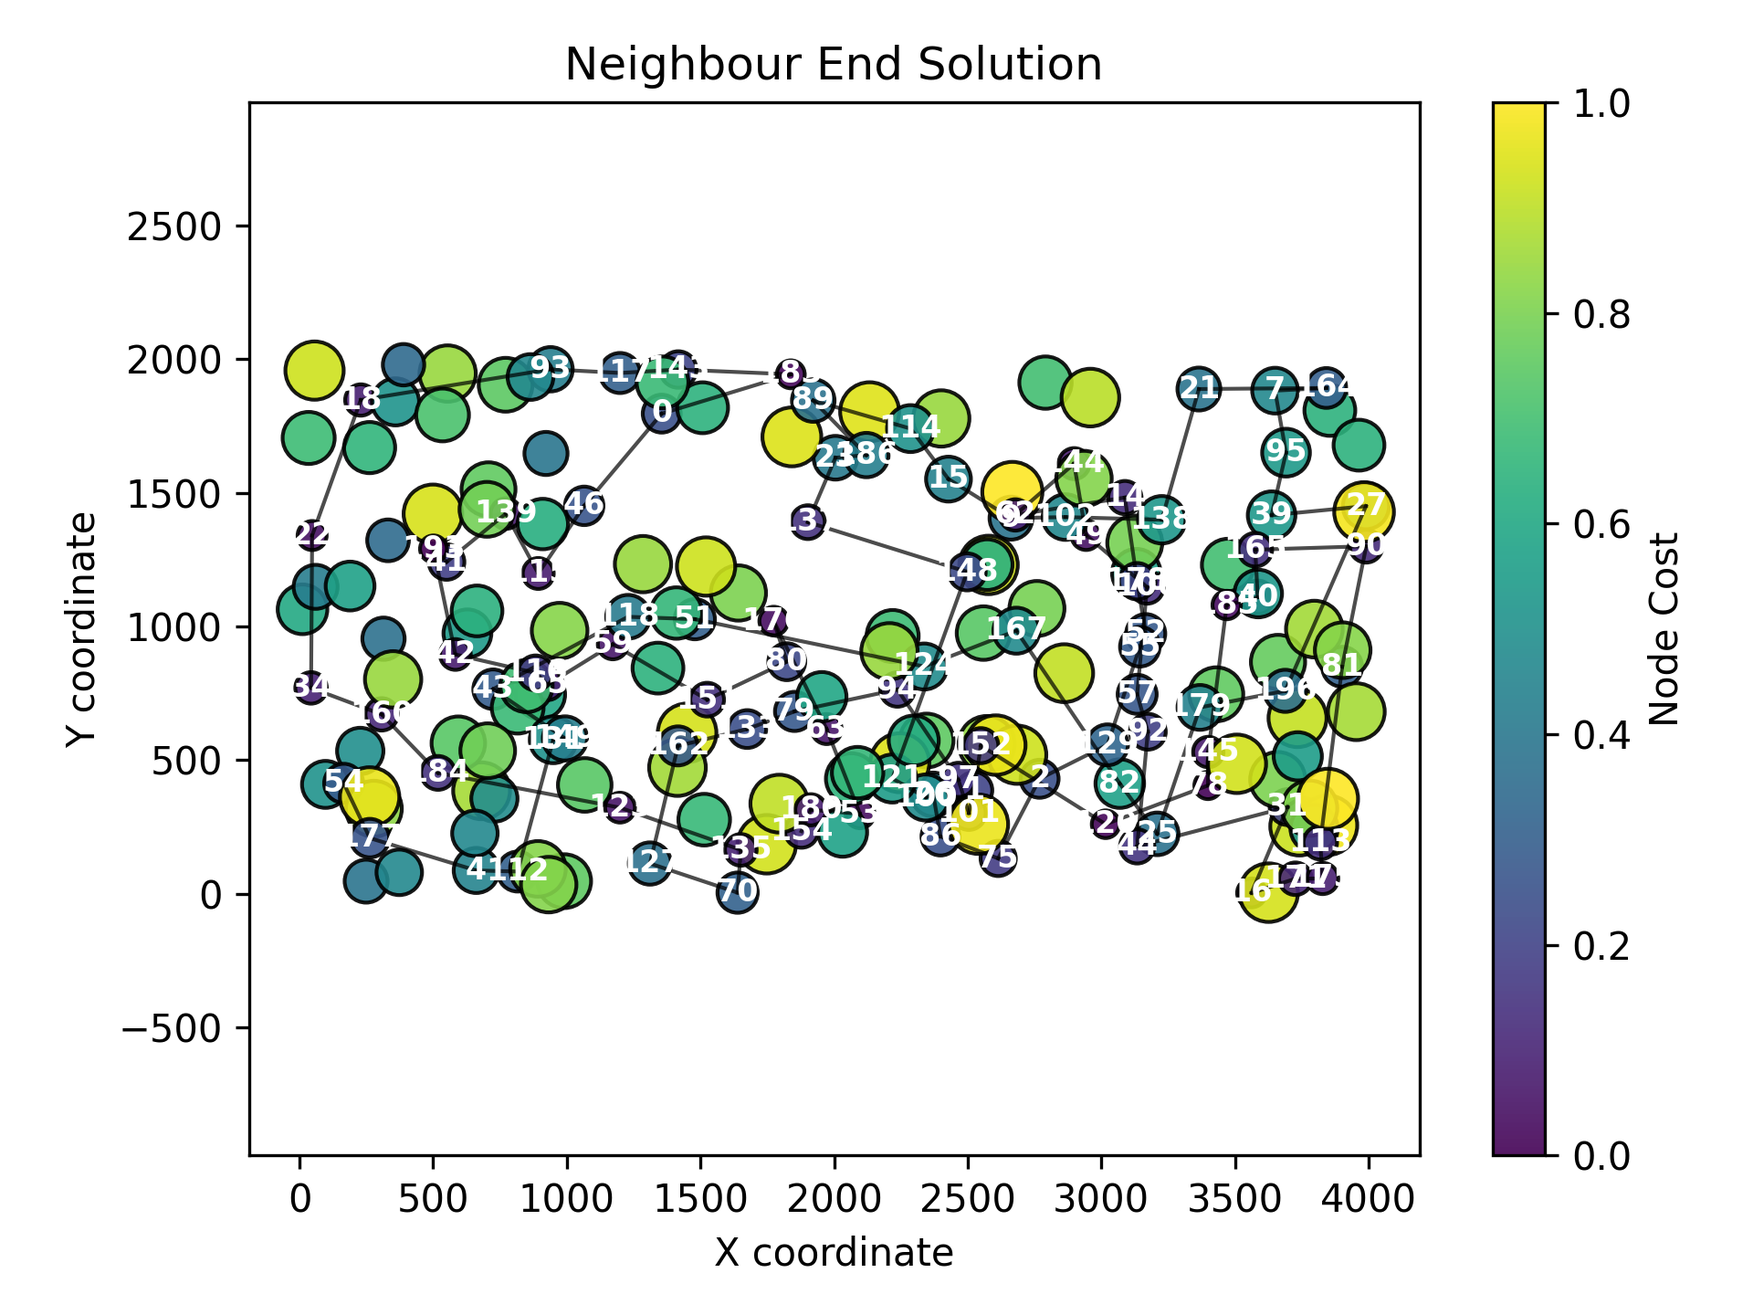
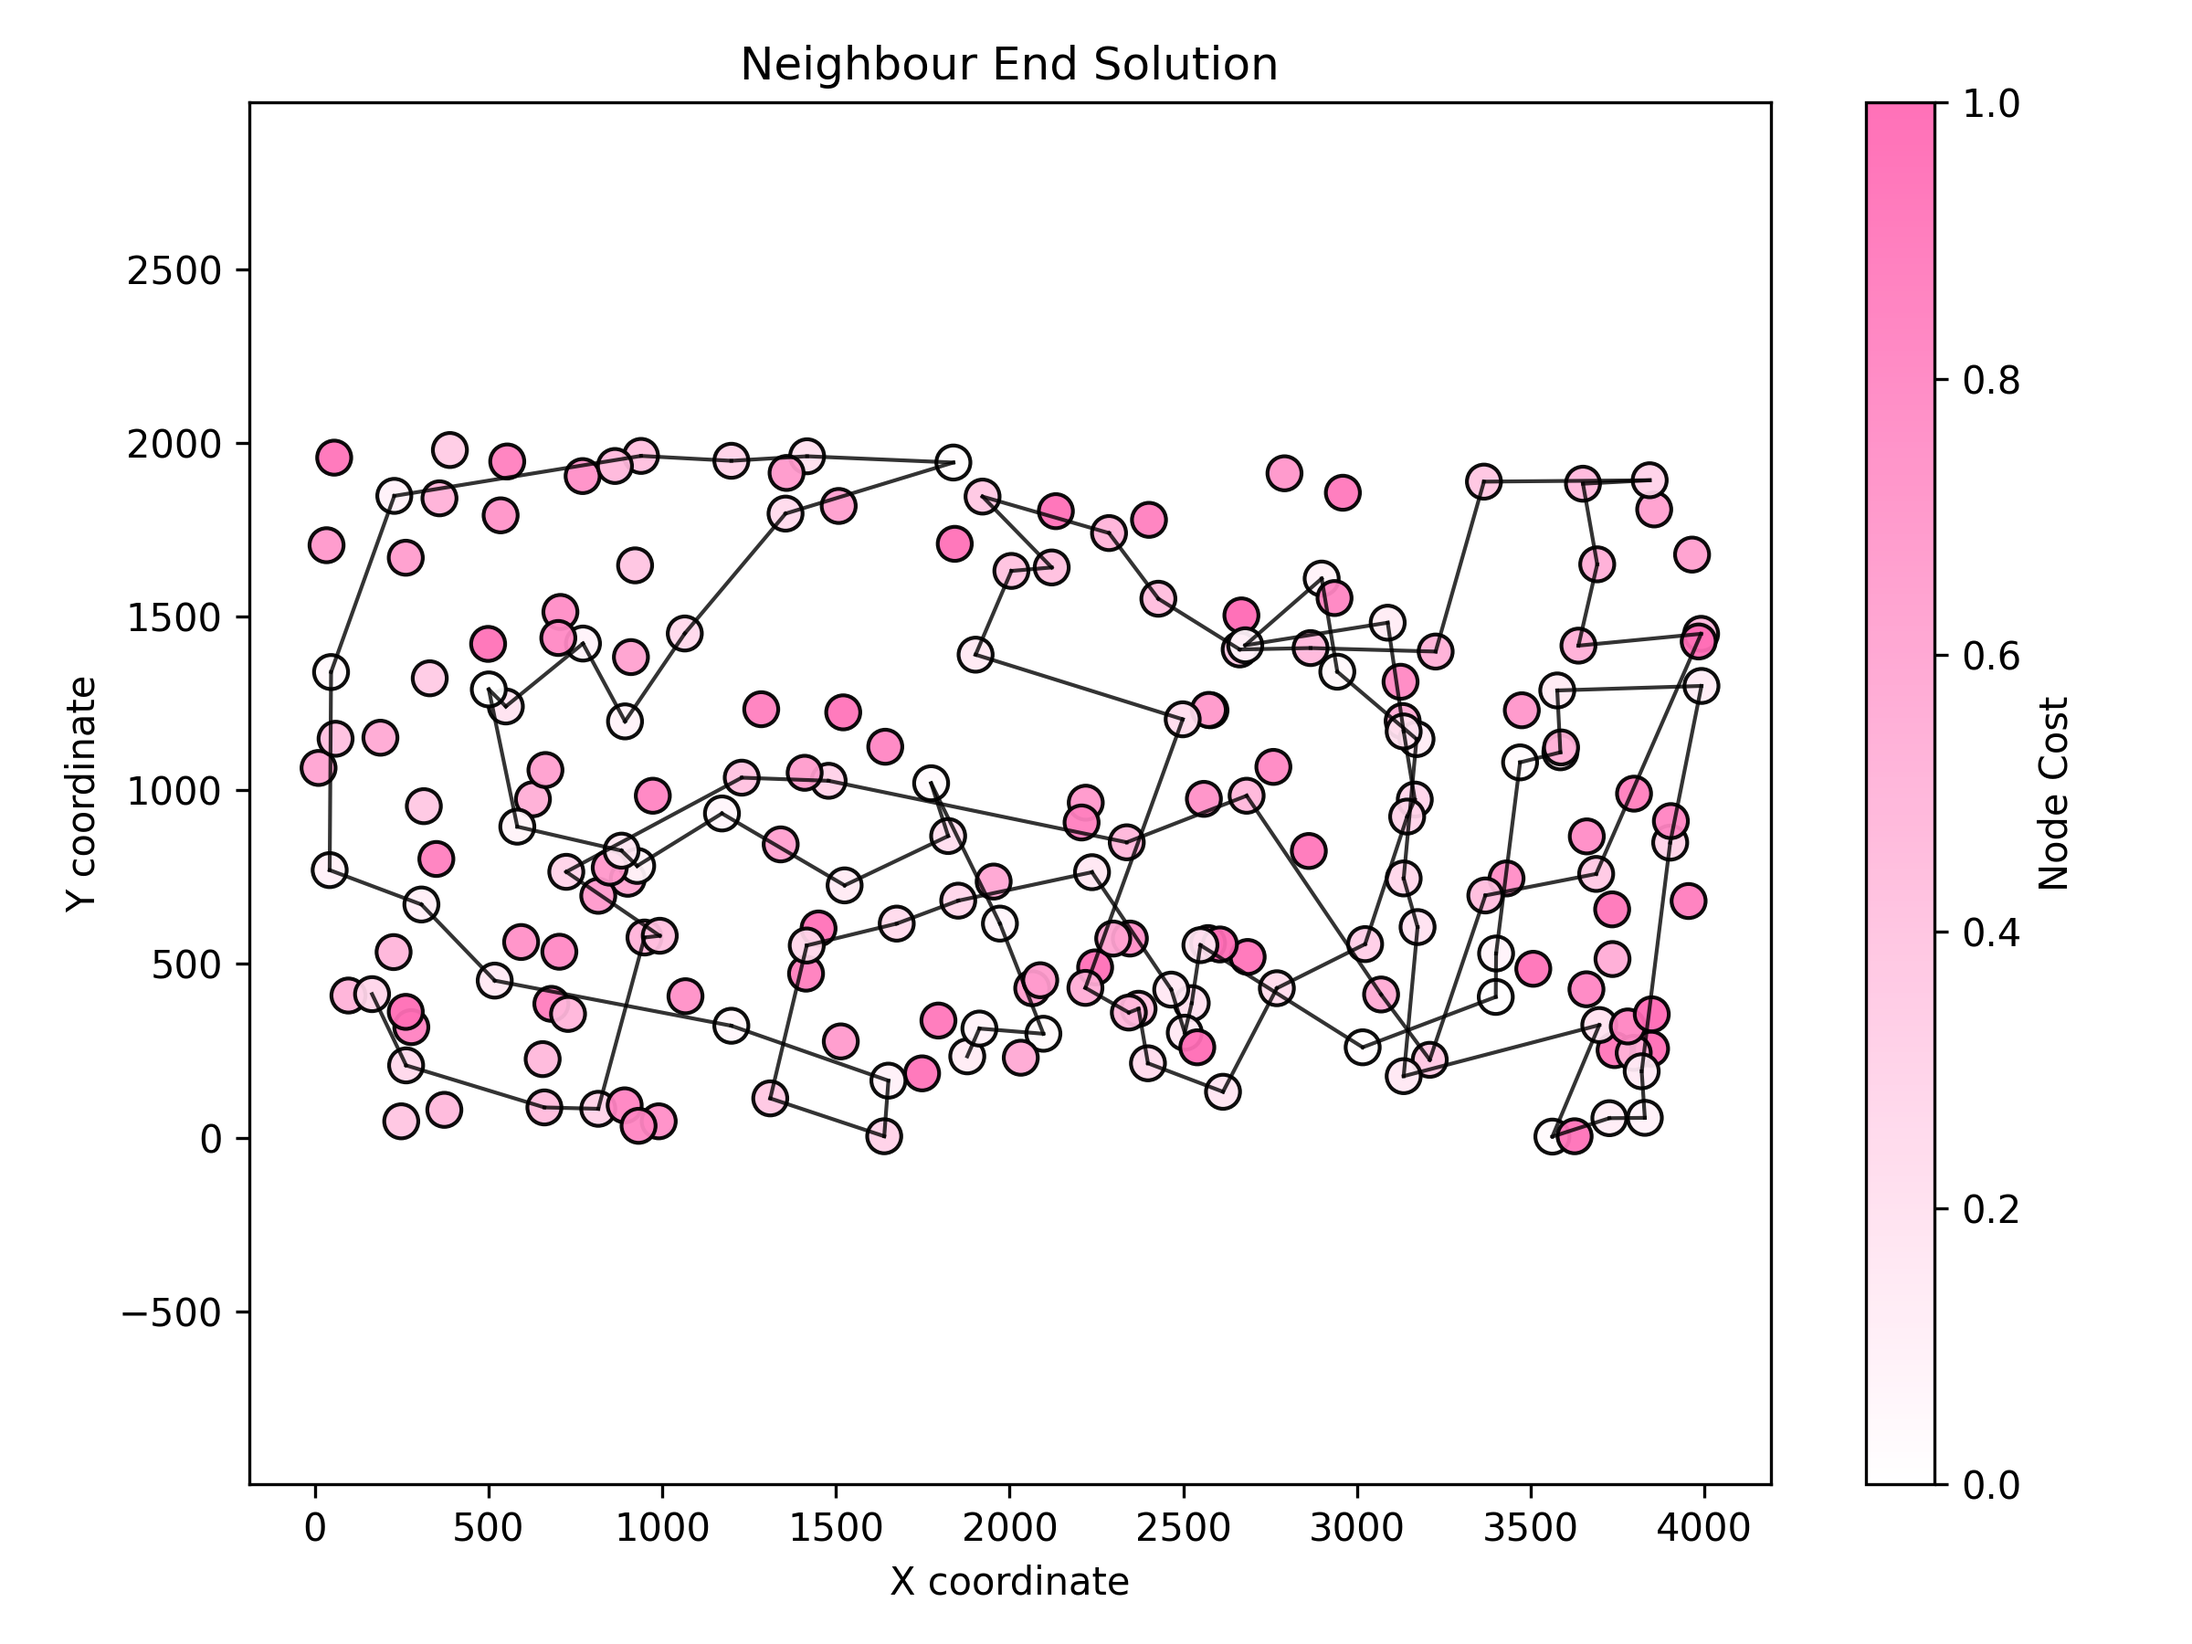
updated

diff --git a/Assignment_2/plot_generator.py b/Assignment_2/plot_generator.py
@@ -1,0 +1,127 @@
+import csv
+import matplotlib.pyplot as plt
+import numpy as np
+from matplotlib.colors import LinearSegmentedColormap
+
+def read_nodes_from_csv(filename):
+    """
+    Reads node data from a CSV file.
+    Each row: x; y; cost
+    Returns:
+        nodes (list of (x, y)),
+        costs (list of float)
+    """
+    nodes = []
+    costs = []
+    with open(filename, 'r', newline='') as csvfile:
+        reader = csv.reader(csvfile, delimiter=';')
+        for row in reader:
+            if not row or len(row) < 3:
+                continue
+            x, y, cost = map(float, row[:3])
+            nodes.append((x, y))
+            costs.append(cost)
+    return nodes, costs
+
+
+def visualize_solution(nodes, path=None, costs=None,
+                       title="Graph Visualization",
+                       edges=None,
+                       show=True,
+                       save_path=None):
+    """
+    Visualize a 2D graph or TSP-like path.
+    - nodes: list of (x, y)
+    - path: optional ordered list of node indices
+    - costs: list of node costs (optional, used for color)
+    - edges: optional list of (i, j) pairs to draw connections
+    """
+    nodes = np.array(nodes)
+    x, y = nodes[:, 0], nodes[:, 1]
+
+    if costs is not None:
+        costs = np.array(costs)
+        normalized_costs = (costs - np.min(costs)) / (np.max(costs) - np.min(costs) + 1e-9)
+    else:
+        normalized_costs = np.zeros(len(nodes))
+
+    plt.figure(figsize=(8, 6))
+
+    if edges is None and path is not None:
+        edges = [(path[i], path[i + 1]) for i in range(len(path) - 1)]
+    elif edges is None:
+        edges = []
+
+    for (i, j) in edges:
+        plt.plot([nodes[i, 0], nodes[j, 0]], [nodes[i, 1], nodes[j, 1]],
+                 color='black', lw=1, alpha=0.8, zorder=4)
+
+
+    pink_map = LinearSegmentedColormap.from_list("white_pink", ["#ffffff", "#ff69b4"])
+
+    scatter = plt.scatter(
+        x, y,
+        c=normalized_costs,
+        cmap=pink_map,
+        s=80,
+        edgecolor='black',
+        alpha=0.95,
+        zorder=3
+    )
+
+    plt.title(title)
+    if costs is not None:
+        plt.colorbar(scatter, label="Node Cost")
+
+    plt.axis("equal")
+    plt.xlabel("X coordinate")
+    plt.ylabel("Y coordinate")
+    plt.tight_layout()
+
+    if save_path:
+        plt.savefig(save_path, dpi=300)
+        print(f"Saved figure → {save_path}")
+    if show:
+        plt.show()
+    plt.close()
+
+
+if __name__ == "__main__":
+    nodes, costs = read_nodes_from_csv(r".\TSPA.csv")
+    path_random = [
+    86, 6, 59, 8, 34, 156, 74, 91, 182, 103, 127, 163, 153, 168, 148, 44, 164, 185,
+    18, 194, 70, 97, 176, 116, 120, 54, 10, 146, 111, 72, 154, 31, 132, 50, 184, 100,
+    95, 93, 7, 82, 1, 90, 183, 191, 19, 126, 63, 197, 166, 198, 94, 79, 181, 22, 23,
+    53, 139, 11, 137, 138, 57, 5, 15, 162, 41, 161, 151, 117, 51, 46, 48, 28, 55, 109,
+    133, 21, 65, 42, 29, 47, 145, 125, 196, 130, 121, 40, 12, 0, 69, 78, 108, 123, 81,
+    101, 129, 62, 66, 140, 99, 113
+    ]
+    path_neigbour_end = [
+    154, 180, 53, 63, 176, 80, 151, 59, 65, 116, 42, 193, 41, 139, 115, 46, 0, 183,
+    143, 117, 93, 18, 22, 34, 160, 184, 123, 135, 70, 127, 162, 133, 79, 94, 97, 101,
+    1, 152, 120, 78, 145, 185, 40, 165, 90, 81, 113, 175, 171, 16, 31, 44, 92, 57,
+    106, 49, 144, 62, 14, 178, 52, 55, 129, 2, 75, 86, 26, 100, 121, 148, 137, 23,
+    186, 89, 114, 15, 9, 102, 138, 21, 164, 7, 95, 39, 27, 196, 179, 25, 82, 167,
+    124, 51, 118, 43, 149, 131, 112, 4, 177, 54
+    ]
+    path_neighbour = [
+        196, 81, 90, 165, 119, 40, 185, 106, 178, 14, 144, 62, 9, 148, 102, 49, 52, 55,
+        57, 129, 92, 179, 145, 78, 31, 56, 113, 175, 171, 16, 25, 44, 120, 2, 75, 101,
+        1, 152, 97, 26, 100, 86, 53, 154, 70, 135, 180, 94, 63, 79, 133, 127, 123, 162,
+        151, 51, 80, 176, 137, 23, 186, 89, 183, 143, 0, 117, 93, 140, 68, 46, 139, 115,
+        118, 59, 65, 116, 43, 184, 35, 84, 112, 4, 190, 10, 177, 54, 48, 160, 34, 181,
+        42, 5, 41, 193, 159, 146, 22, 18, 69, 108
+    ]
+    path_greedy = [
+        40, 119, 185, 52, 55, 57, 129, 92, 179, 145, 78, 31, 56, 113, 175, 171, 16, 25,
+        44, 120, 2, 75, 86, 100, 26, 101, 1, 97, 152, 124, 94, 63, 53, 180, 154, 135,
+        70, 127, 123, 112, 4, 84, 35, 184, 190, 10, 177, 54, 48, 160, 34, 181, 146, 22,
+        18, 108, 69, 159, 193, 41, 139, 68, 46, 115, 5, 42, 43, 116, 65, 59, 118, 51,
+        162, 151, 133, 79, 80, 176, 137, 0, 117, 143, 183, 89, 23, 186, 15, 148, 9, 62,
+        102, 144, 14, 49, 178, 106, 165, 90, 81, 196
+    ]
+    print(len(nodes))
+    visualize_solution(nodes, path_random, costs, title="Random Solution",save_path="random_solution.png")
+    visualize_solution(nodes, path_neigbour_end, costs, title="Neighbour End Solution", save_path="neighbour_end.png") 
+    visualize_solution(nodes, path_neighbour, costs, title="Nearest Neighbour Solution",save_path="neighbour_solution.png")
+    visualize_solution(nodes, path_greedy, costs, title="Greedy Solution", save_path="greedy_solution.png") 
